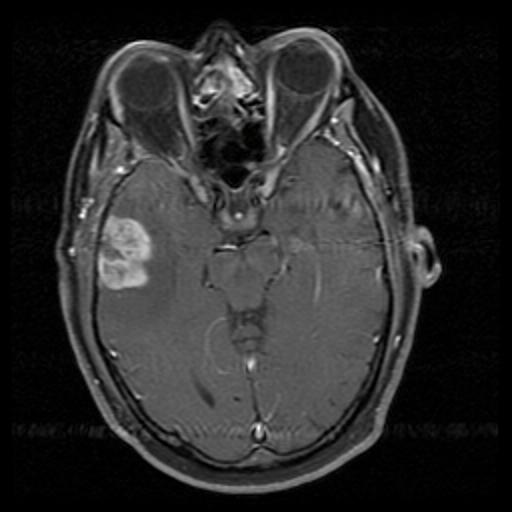
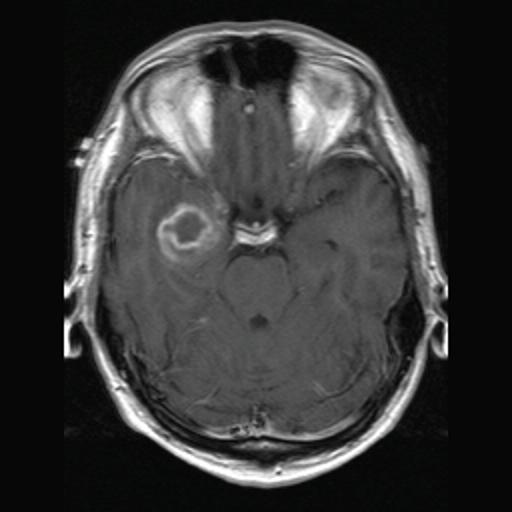
added resizing matching

diff --git a/classifyImages.py b/classifyImages.py
@@ -1,53 +1,73 @@
 import cv2
 import numpy as np
 from matplotlib import pyplot as plt
+from cropImages import crop
 
-def getImageBrigthness(image):
+def getImageBrigthness(img):
     height, width, channels = img.shape
     total = 0
+    r=0
+    g=0
+    b=0
     count = 0
     for y in range(height):
         for x in range(width):
             total += (img[y][x][0] + img[y][x][1] + img[y][x][2])//3
+            r += img[y][x][0]
+            g += img[y][x][1]
+            b += img[y][x][2]
             count = count + 1
-    return total//count
+    return total//count, r//count, g//count, b//count
 
-imgcodes = range(1,6)
-for imgcode in imgcodes:
-    fileName = str(imgcode) + '.jpeg'
-    img = cv2.imread(fileName)
-    print(str(getImageBrigthness(img)))
-    img2 = img.copy()
-    template = cv2.imread('a.jpeg')
-    w, h, c = template.shape
+def main():
+    maxId = 10
+    crop(maxId)
+    imgcodes = range(1,maxId)
+    for imgcode in imgcodes:
+        fileName = "new_" + str(imgcode) + '.jpeg'
+        img = cv2.imread(fileName)
+        print(str(getImageBrigthness(img)))
+        img2 = img.copy()
+        template = cv2.imread('a.jpeg')
+        w, h, c = template.shape
+        
+        templateSizingSteps = np.arange(0.9,1.3,0.1)
+        for step in templateSizingSteps:
+            print("Current resizing step: " + str(step))
+            height, width = template.shape[:2]
+            template = cv2.resize(template,(int(height*step), int(width*step)), interpolation = cv2.INTER_CUBIC)
+            print(str(template.shape[:2]))
+            # All the 6 methods for comparison in a list
+#            methods = ['cv2.TM_CCOEFF', 'cv2.TM_CCOEFF_NORMED', 'cv2.TM_CCORR',
+#                        'cv2.TM_CCORR_NORMED', 'cv2.TM_SQDIFF', 'cv2.TM_SQDIFF_NORMED']
 
-    # All the 6 methods for comparison in a list
-    #methods = ['cv2.TM_CCOEFF', 'cv2.TM_CCOEFF_NORMED', 'cv2.TM_CCORR',
-    #            'cv2.TM_CCORR_NORMED', 'cv2.TM_SQDIFF', 'cv2.TM_SQDIFF_NORMED']
+            methods = ['cv2.TM_SQDIFF_NORMED']
+            for meth in methods:
+                print
+                img = img2.copy()
+                method = eval(meth)
 
-    methods = ['cv2.TM_SQDIFF_NORMED']
-    for meth in methods:
-        img = img2.copy()
-        method = eval(meth)
+                # Apply template Matching
+                res = cv2.matchTemplate(img,template,method)
 
-        # Apply template Matching
-        res = cv2.matchTemplate(img,template,method)
+                min_val, max_val, min_loc, max_loc = cv2.minMaxLoc(res)
+                print("max_val" + str(max_val))
+                print("min_loc" + str(min_loc))
+                print("max_loc" + str(max_loc))
+                # If the method is TM_SQDIFF or TM_SQDIFF_NORMED, take minimum
+                if method in [cv2.TM_SQDIFF, cv2.TM_SQDIFF_NORMED]:
+                    top_left = min_loc
+                else:
+                    top_left = max_loc
+                bottom_right = (top_left[0] + w, top_left[1] + h)
 
-        min_val, max_val, min_loc, max_loc = cv2.minMaxLoc(res)
-        print("min_loc" + str(min_loc))
-        print("max_loc" + str(max_loc))
-        # If the method is TM_SQDIFF or TM_SQDIFF_NORMED, take minimum
-        if method in [cv2.TM_SQDIFF, cv2.TM_SQDIFF_NORMED]:
-            top_left = min_loc
-        else:
-            top_left = max_loc
-        bottom_right = (top_left[0] + w, top_left[1] + h)
+                cv2.rectangle(img,top_left, bottom_right, 255, 2)
+                plt.subplot(121),plt.imshow(res,cmap = 'gray')
+                plt.title('Matching Result'), plt.xticks([]), plt.yticks([])
+                plt.subplot(122),plt.imshow(img,cmap = 'gray')
+                plt.title('Detected Point'), plt.xticks([]), plt.yticks([])
+                plt.suptitle(meth)
 
-        cv2.rectangle(img,top_left, bottom_right, 255, 2)
-        plt.subplot(121),plt.imshow(res,cmap = 'gray')
-        plt.title('Matching Result'), plt.xticks([]), plt.yticks([])
-        plt.subplot(122),plt.imshow(img,cmap = 'gray')
-        plt.title('Detected Point'), plt.xticks([]), plt.yticks([])
-        plt.suptitle(meth)
+                plt.show()
 
-        plt.show()
+main()

diff --git a/cropImages.py b/cropImages.py
@@ -9,27 +9,28 @@ def plot():
     plt.subplot(122),plt.imshow(img,cmap = 'gray')
     plt.show()
 
-for i in range(6):
-    fileName = str(i) + ".jpeg"
-    img=cv2.imread(fileName)
-    height, width, channels = img.shape
-    startX = width//2
-    startY = height//2
-    endX = 0
-    endY = height//2
-    for y in range(height):
-        for x in range(width):
-            if img[y][x][0] > 50 or img[y][x][1] > 50 or img[y][x][2] > 50:
-                if startY > y:
-                    startY = y
-                if startX > x:
-                    startX = x
-                if endX < x:
-                    endX = x
-                if endY < y:
-                    endY = y
+def crop(maxId):
+    for i in range(maxId):
+        fileName = str(i) + ".jpeg"
+        img=cv2.imread(fileName)
+        height, width, channels = img.shape
+        startX = width//2
+        startY = height//2
+        endX = 0
+        endY = height//2
+        for y in range(height):
+            for x in range(width):
+                if img[y][x][0] > 50 or img[y][x][1] > 50 or img[y][x][2] > 50:
+                    if startY > y:
+                        startY = y
+                    if startX > x:
+                        startX = x
+                    if endX < x:
+                        endX = x
+                    if endY < y:
+                        endY = y
 
-    cropped = img[startY:endY, startX:endX]
-    fileName= "new_" + fileName
-    cv2.imwrite(fileName,cropped)
-    #plot()
+        cropped = img[startY:endY, startX:endX]
+        fileName= "new_" + fileName
+        cv2.imwrite(fileName,cropped)
+        #plot()
